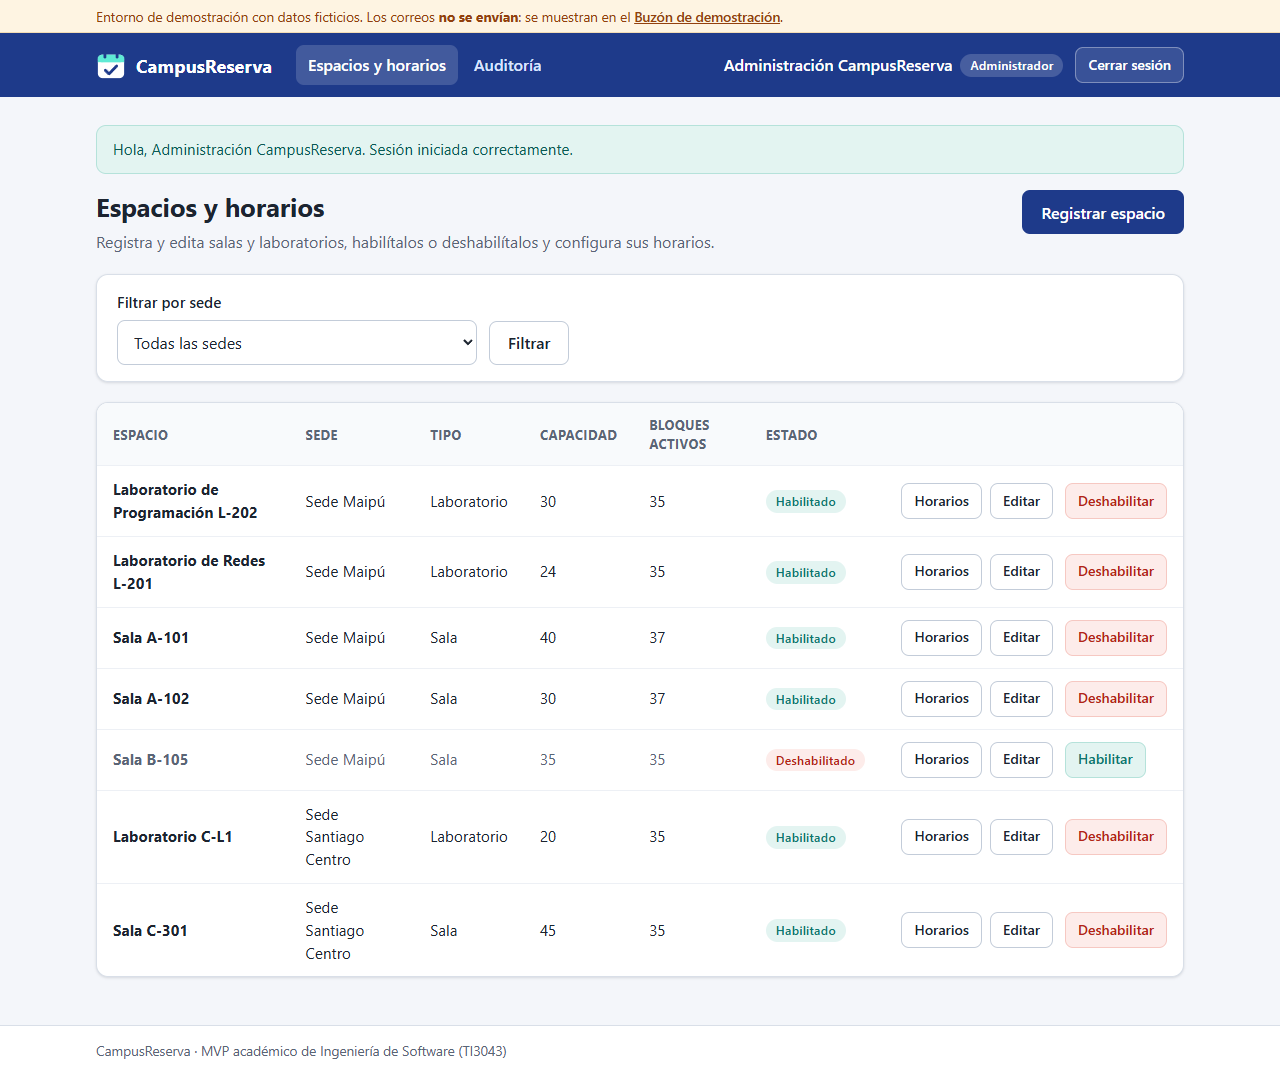
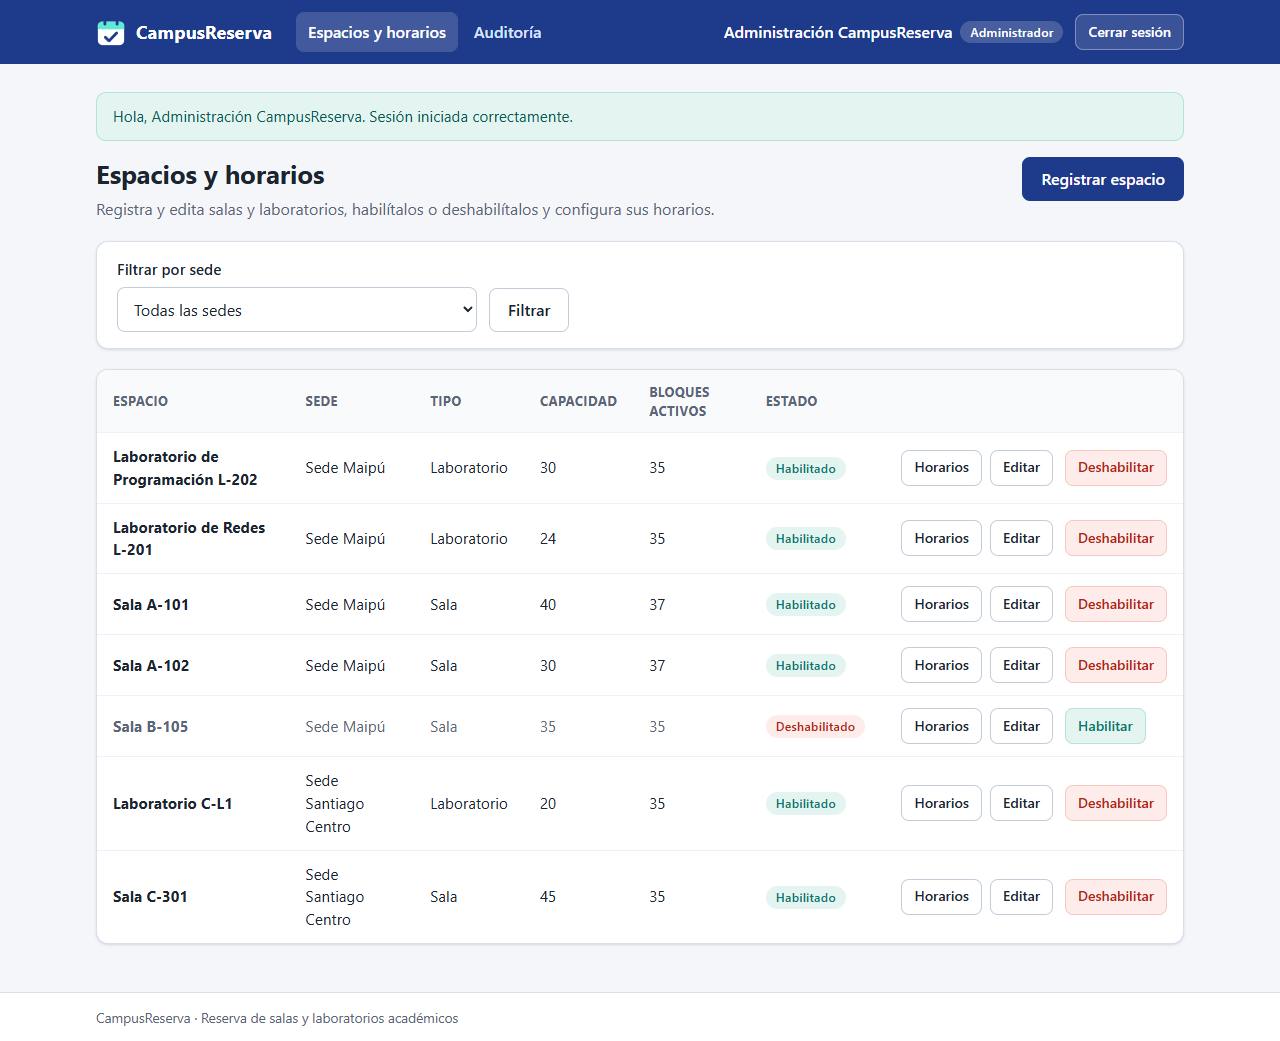
fix: quitar de la interfaz los textos de entorno de demostración y usar nombres ficticios realistas

diff --git a/src/db/seed.js b/src/db/seed.js
@@ -47,10 +47,10 @@ const ESPACIOS = [
  * Pedro queda PENDIENTE para demostrar el bloqueo de cuentas sin confirmar.
  */
 const USUARIOS = [
-  { clave: 'ana', nombre: 'Ana Rivas Demo', local: 'ana.estudiante', rol: 'ESTUDIANTE', estado: 'ACTIVA' },
-  { clave: 'diego', nombre: 'Diego Soto Demo', local: 'diego.docente', rol: 'DOCENTE', estado: 'ACTIVA' },
+  { clave: 'ana', nombre: 'Ana Rivas Fuentes', local: 'ana.estudiante', rol: 'ESTUDIANTE', estado: 'ACTIVA' },
+  { clave: 'diego', nombre: 'Diego Soto Mella', local: 'diego.docente', rol: 'DOCENTE', estado: 'ACTIVA' },
   { clave: 'admin', nombre: 'Administración CampusReserva', local: 'admin', rol: 'ADMINISTRADOR', estado: 'ACTIVA' },
-  { clave: 'pedro', nombre: 'Pedro Pendiente Demo', local: 'pedro.pendiente', rol: 'ESTUDIANTE', estado: 'PENDIENTE' },
+  { clave: 'pedro', nombre: 'Pedro Lagos Vera', local: 'pedro.pendiente', rol: 'ESTUDIANTE', estado: 'PENDIENTE' },
 ];
 
 /** Listado institucional autorizado (incluye correos aún no registrados para probar RF-01). */
@@ -142,7 +142,7 @@ async function sembrar(db, config) {
     ).run(
       `pedro.pendiente@${dominio}`,
       'Confirma tu cuenta de CampusReserva',
-      'Hola Pedro Pendiente Demo: para activar tu cuenta abre el siguiente enlace. Es válido por 24 horas y se puede usar una sola vez.',
+      'Hola Pedro Lagos Vera: para activar tu cuenta abre el siguiente enlace. Es válido por 24 horas y se puede usar una sola vez.',
       `${config.urlBase}/confirmar?token=${token}`,
       ahoraIso,
     );

diff --git a/scripts/pruebas-despliegue.js b/scripts/pruebas-despliegue.js
@@ -261,7 +261,7 @@ async function ejecutarPruebas() {
     const invalido = await admin.post('/admin/espacios', { sede: '1', nombre: 'Sala inválida', tipo: 'SALA', capacidad: '0' });
     exigir(invalido.estado === 422, `una capacidad 0 respondió ${invalido.estado}`);
     const hora = fechaHoraEnZona(new Date(), ZONA).hora.replace(':', '');
-    const nombre = `Sala Prueba Despliegue ${hora}`;
+    const nombre = `Sala E-${hora}`;
     const r = await admin.post('/admin/espacios', { sede: '1', nombre, tipo: 'SALA', capacidad: '12' });
     exigir(r.estado === 303 && /^\/admin\/espacios\/\d+\/horarios$/.test(r.ubicacion || ''), `respondió ${r.estado} → ${r.ubicacion}`);
     exigir((await admin.get('/admin/espacios')).html.includes(nombre), 'el espacio no aparece en la lista');
@@ -272,7 +272,7 @@ async function ejecutarPruebas() {
     const c = nuevoCliente();
     await c.get('/registro');
     for (const correo of CORREOS_LISTADO) {
-      const r = await c.post('/registro', { nombre: 'Usuario Prueba Despliegue', correo, contrasena: CLAVE_NUEVA, confirmacion: CLAVE_NUEVA });
+      const r = await c.post('/registro', { nombre: 'Tomás Fuentes Rojas', correo, contrasena: CLAVE_NUEVA, confirmacion: CLAVE_NUEVA });
       if (r.estado === 303 && r.ubicacion === '/registro/enviado') {
         correoRegistrado = correo;
         break;

diff --git a/public/css/estilos.css b/public/css/estilos.css
@@ -64,15 +64,6 @@ code { background: #eef1f6; padding: 0.05rem 0.35rem; border-radius: 4px; }
 .saltar:focus { left: 8px; top: 8px; }
 .solo-lector { position: absolute; width: 1px; height: 1px; overflow: hidden; clip: rect(0 0 0 0); white-space: nowrap; }
 
-/* ---------- Franja de demostración ---------- */
-.franja-demo {
-  background: var(--aviso-suave);
-  color: var(--aviso);
-  font-size: 0.85rem;
-  padding: 6px 0;
-  border-bottom: 1px solid #f3dcb5;
-}
-.franja-demo a { color: var(--aviso); font-weight: 600; }
 
 /* ---------- Cabecera ---------- */
 .cabecera { background: var(--primario); color: #fff; }

diff --git a/scripts/capturas.js b/scripts/capturas.js
@@ -97,7 +97,7 @@ async function main() {
     await capturar(anonimo, '02-registro-validaciones', 'RF-01 Validación en servidor: nombre, dominio institucional y contraseña.');
 
     await anonimo.goto(`${URL_BASE}/registro`);
-    await anonimo.fill('#nombre', 'Camila Estudiante Demo');
+    await anonimo.fill('#nombre', 'Camila Torres Vega');
     await anonimo.fill('#correo', 'camila.estudiante@campus.test');
     await anonimo.fill('#contrasena', 'mi frase de prueba 2026');
     await anonimo.fill('#confirmacion', 'mi frase de prueba 2026');

diff --git a/docs/evidencias/capturas/INDICE.md b/docs/evidencias/capturas/INDICE.md
@@ -1,6 +1,6 @@
 # Índice de capturas (generadas con `npm run capturas`)
 
-Fecha: 2026-11-11T06:07:11.367Z
+Fecha: 2026-11-11T06:17:14.033Z
 
 | Archivo | Descripción | Ruta |
 |---|---|---|
@@ -9,7 +9,7 @@ Fecha: 2026-11-11T06:07:11.367Z
 | 03-registro-pendiente.png | RF-01 Cuenta creada en estado pendiente de confirmación. | /registro/enviado |
 | 04-buzon-demostracion.png | RF-01 Buzón de demostración: correo simulado con enlace de confirmación (no se envían correos reales). | /demo/buzon |
 | 05-login-cuenta-pendiente.png | RF-01/RF-02 Una cuenta pendiente no puede iniciar sesión. | /login |
-| 06-confirmar-cuenta.png | RF-01 Confirmación de cuenta desde el enlace (requiere presionar el botón). | /confirmar?token=8sY7dkUtBuwFEiWxvIQ-I_RWnzgSnwEOL7mFWj_wMyI |
+| 06-confirmar-cuenta.png | RF-01 Confirmación de cuenta desde el enlace (requiere presionar el botón). | /confirmar?token=0I8819f532cfacJo6RekHkAqCIwqgadin0S1gWhR66c |
 | 07-cuenta-confirmada.png | RF-01 Cuenta activada: ya puede iniciar sesión. | /login |
 | 08-login-credenciales-invalidas.png | RF-02 Rechazo de credenciales inválidas con mensaje genérico. | /login |
 | 09-disponibilidad-resultados.png | RF-03 Disponibilidad por sede y fecha (excluye reservados, bloqueados y espacios deshabilitados). | /disponibilidad?sede=1&fecha=2026-11-12 |
